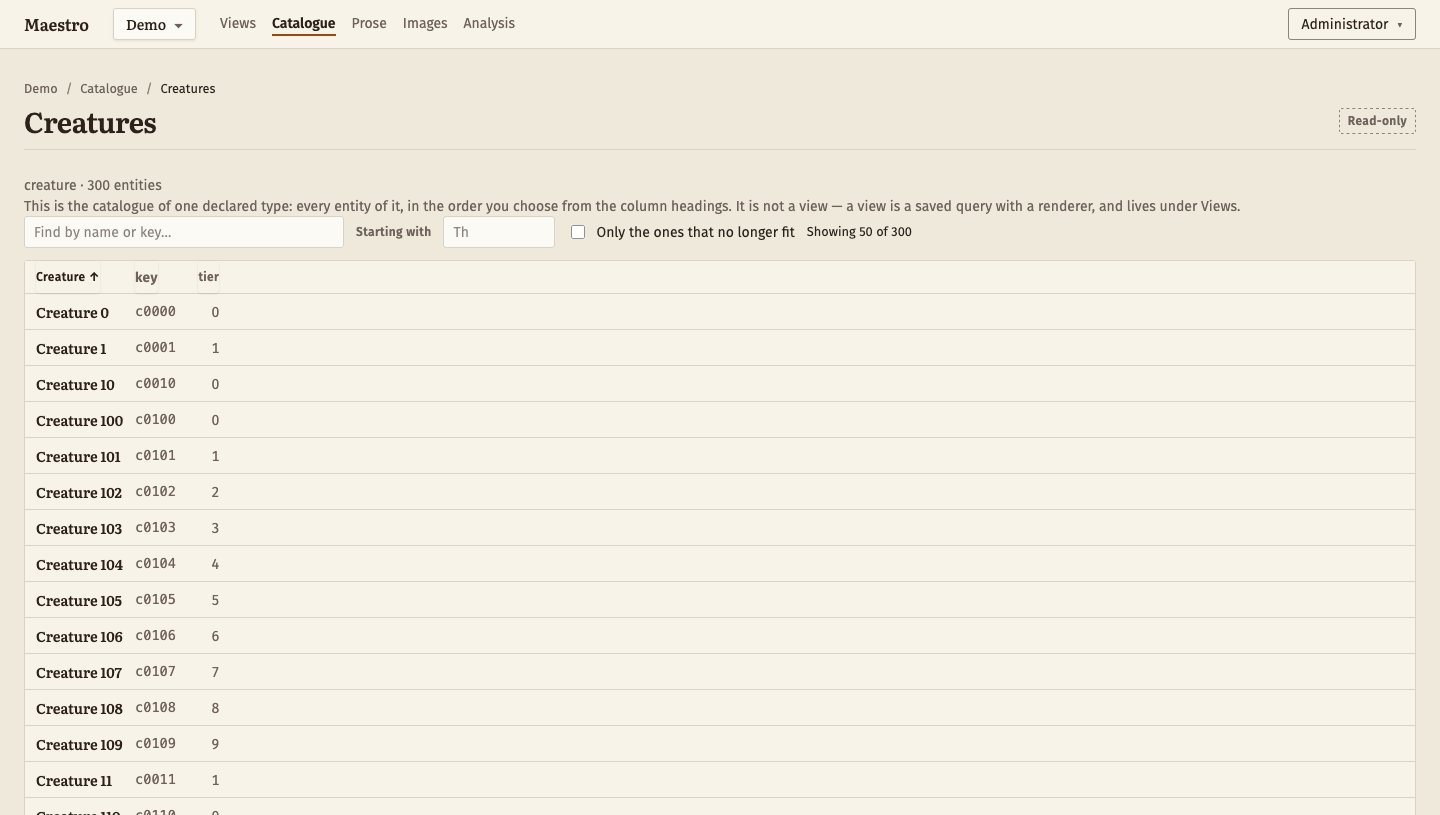
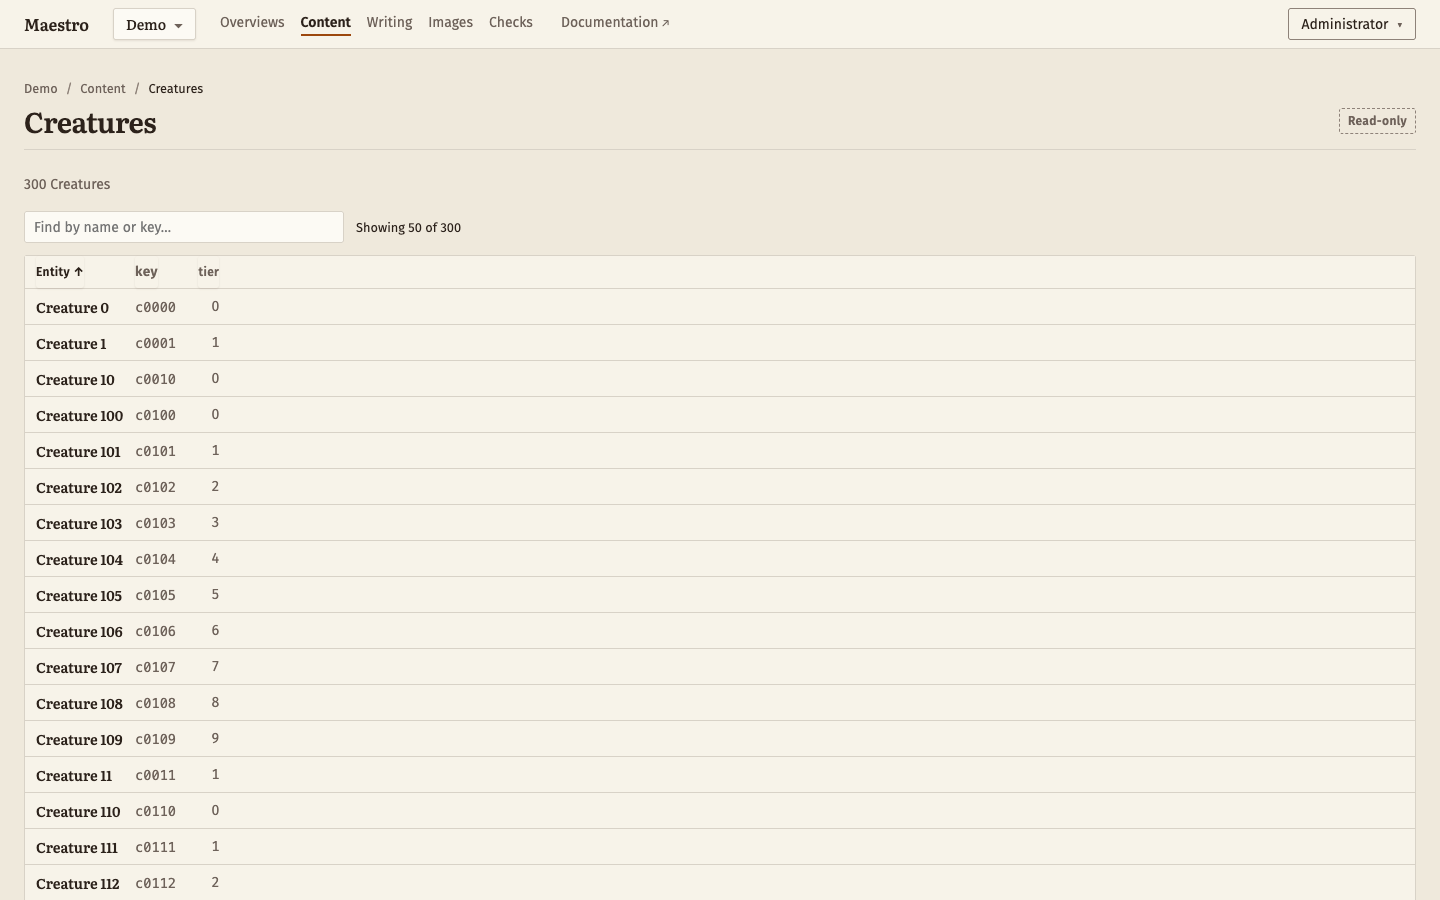
docs(site): the front page says the log exists, and the screenshots are of the screens as they are

diff --git a/cmd/maestro-docs/site_test.go b/cmd/maestro-docs/site_test.go
@@ -2,6 +2,7 @@ package main
 
 import (
 	"encoding/json"
+	"fmt"
 	"os"
 	"path/filepath"
 	"regexp"
@@ -372,13 +373,18 @@ func TestEveryWrittenPageIsAMarkdownFile(t *testing.T) {
 func TestAPictureOnItsOwnLineIsAFigure(t *testing.T) {
 	front := buildSite(t)["index.html"]
 	assert.Should(t, !strings.Contains(front, "<p><img"), "an image is still a bare paragraph: the figure transform did not run")
-	for _, want := range []string{"<figure><img ", "<figcaption>", `width="1440" height="815"`} {
+	for _, want := range []string{"<figure><img ", "<figcaption>"} {
 		assert.Should(t, strings.Contains(front, want), "the front page's figures carry no %s", want)
 	}
-	// The size is read and not written down: a picture of another size
-	// gets its own.
+	// **The size is read off the file, and this guard reads it off the
+	// file too.** It used to assert the two numbers the screenshots
+	// happened to have, which is the same picture written down twice:
+	// retaking them at the size the recipe asks for turned a correct page
+	// red and said nothing about what was wrong.
 	w, h, ok := pngSize(filepath.Join("..", "..", "docs", "images", "quest-chain.png"))
-	assert.Should(t, ok && w == 1440 && h == 815, "pngSize read %dx%d (ok=%v) from a 1440x815 screenshot", w, h, ok)
+	assert.Must(t, ok, "pngSize could not read quest-chain.png at all")
+	assert.Should(t, strings.Contains(front, fmt.Sprintf(`width="%d" height="%d"`, w, h)),
+		"the front page's figure does not carry the picture's own %dx%d", w, h)
 }
 
 // **The design system is three files that move together, and nothing

diff --git a/docs/site/index.md b/docs/site/index.md
@@ -46,6 +46,21 @@ Lore and mission scripts as versioned markdown, attached to the
 entities they describe, with a diff between any two versions and a
 record of who wrote each one.
 
+### The log
+
+Maestro holds the design as it stands: what a thing *is* today. How it
+got there is a separate thing, and it is a log. Beside the content of
+any kind of thing, of any one thing, and of any kind of connection,
+there is a band of notes in date order: what was imported from where,
+what was rewritten and why, the thinking behind a decision, something
+worth doing later.
+
+You write there, and so do your agents, and each note says which of you
+it was. It is the one place in the product where the two of you write to
+each other rather than both writing the game. Nothing queries a note,
+nothing draws one and no analysis counts one, which is what lets it hold
+whatever needed saying.
+
 ![The catalogue of one declared type: three hundred creatures with their keys and a declared field.](images/catalogue.png)
 
 *Three hundred rows of one type in the same example game. The columns
@@ -76,6 +91,11 @@ from a value the writer forgot to carry. If content vanishes from a row
 an agent has just touched, that is the shape of the accident. The row's
 version is what stops two writers doing it to each other, and it is no
 help at all against one writer sending half a row.
+
+A note in the log is the fourth thing, and it works differently on
+purpose: it is added rather than edited, so there is no version to
+conflict and nothing to overwrite. Taking one out is the only change a
+log admits, because a log that can be rewritten is not one.
 
 A view can also be composed in the browser, clause by clause, for the
 half of the query language a sentence can hold. The other half is a

diff --git a/docs/images/readme.md b/docs/images/readme.md
@@ -38,8 +38,11 @@ in different themes look like two different products.
 
 ## The index
 
-Two images, both taken on 2026-09-15 from the `demo` game at 1440x900
-in the light theme.
+Two images, both retaken on 2026-10-07 from the `demo` game at 1440x900
+in the light theme. The pair before them was five months old and showed
+a navigation that has since been renamed and a catalogue that has since
+lost its standing sentence and two of its filters: a screenshot of a
+screen that has moved looks right, which is what this index is for.
 
 | File | Shows | Taken from |
 | :--- | :--- | :--- |
